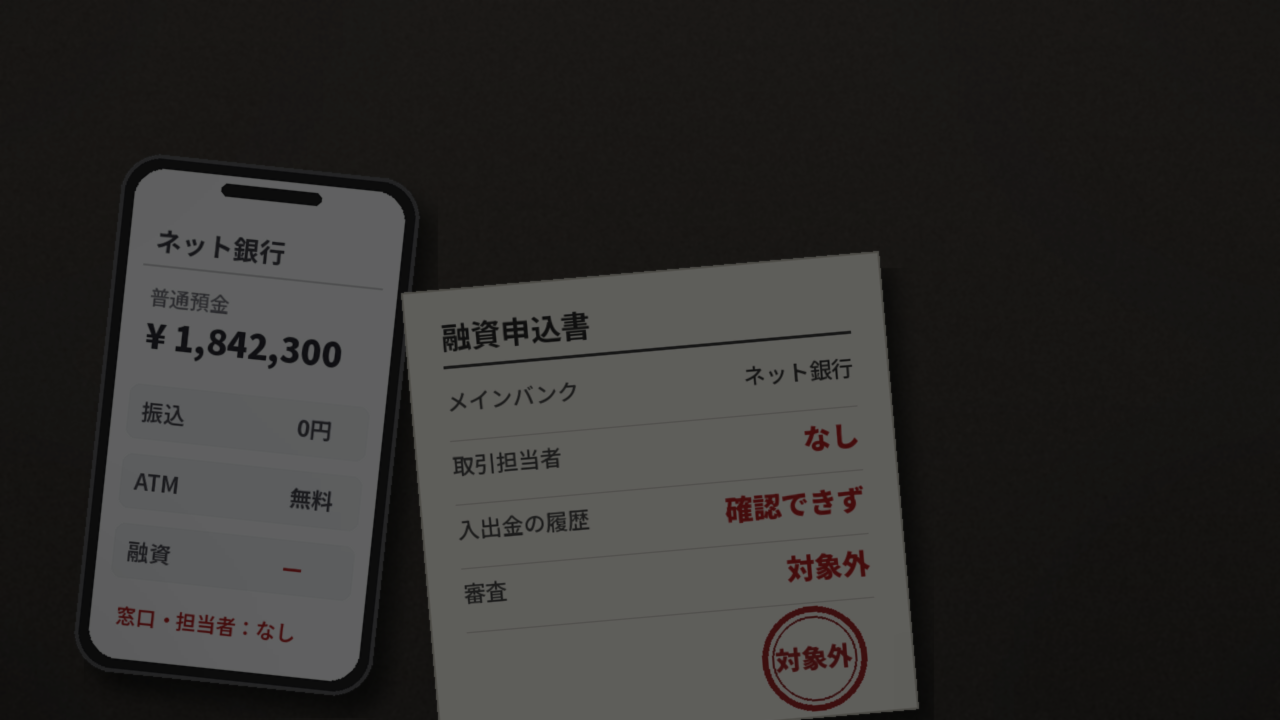
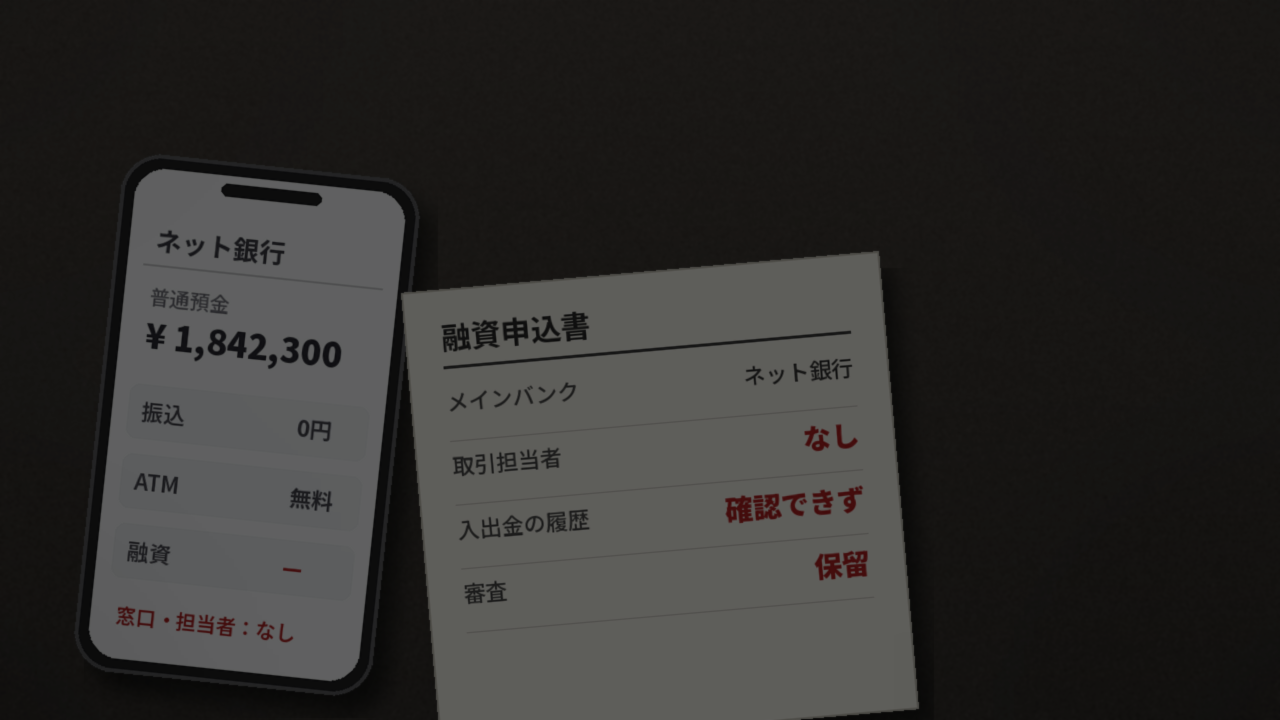
Actvision: 銀行5選サムネを助詞入り文言で作り直し（スタンプ除去・幅に合わせた文字サイズ）、v1は退避
Claude-Session: https://claude.ai/code/session_01DHBSnLSCJvtnYECMcaMvR9

Changed region(s): [[0.5938, 0.7639, 0.6875, 1.0]]

diff --git a/clients/Actvision/thumbs/ginko5/v1/gen_thumb_ginko5_v1.py b/clients/Actvision/thumbs/ginko5/v1/gen_thumb_ginko5_v1.py
@@ -1,0 +1,254 @@
+import random
+from PIL import Image, ImageDraw, ImageFont, ImageFilter, ImageChops, ImageEnhance
+W,H=1280,720
+FONT="fonts/NotoSansJP-VF.ttf"  # Noto Sans JP 可変フォント（wght=900）
+def font(size,wght=900):
+    f=ImageFont.truetype(FONT,size); f.set_variation_by_axes([wght]); return f
+random.seed(7)
+# 右1/3（x>=853）は演者用に空ける。右下10%（x>=1152,y>=648）には文字を置かない
+TEXT_X0,TEXT_X1=28,836
+L1_Y,L1_H=36,140
+L2_Y,L2_H=196,224
+BADGE=(28,560,318,652)
+PERF=(853,0,1280,720)
+
+def desk_base():
+    img=Image.new("RGB",(W,H)); px=img.load()
+    for y in range(H):
+        t=y/H; c=(int(58-18*t),int(50-16*t),int(44-14*t))
+        for x in range(W): px[x,y]=c
+    noise=Image.effect_noise((W,H),28).convert("L").filter(ImageFilter.GaussianBlur(1.2))
+    grain=Image.merge("RGB",(noise,noise,noise)).point(lambda v:int(v*0.25))
+    return ImageChops.add(img,grain,scale=1.0,offset=-20)
+def paper(w,h,fill=(242,238,226,255)):
+    p=Image.new("RGBA",(w,h),(0,0,0,0)); d=ImageDraw.Draw(p)
+    d.rectangle([0,0,w-1,h-1],fill=fill,outline=(200,195,180,255),width=2); return p
+def paste_rot(bg,layer,pos,angle):
+    rot=layer.rotate(angle,expand=True,resample=Image.BICUBIC)
+    sh=Image.new("RGBA",rot.size,(0,0,0,0)); sh.paste((0,0,0,140),(0,0),rot.split()[3])
+    bg.alpha_composite(sh.filter(ImageFilter.GaussianBlur(10)),(pos[0]+14,pos[1]+18)); bg.alpha_composite(rot,pos)
+def doc_lines(d,x,y,w,n,gap=22,col=(120,115,105,255)):
+    for i in range(n): d.line([(x,y+i*gap),(x+int(w*random.uniform(0.55,1.0)),y+i*gap)],fill=col,width=3)
+def stamp(d,cx,cy,r,text,f):
+    d.ellipse([cx-r,cy-r,cx+r,cy+r],outline=(200,30,30,230),width=6)
+    d.ellipse([cx-r+10,cy-r+10,cx+r-10,cy+r-10],outline=(200,30,30,200),width=2)
+    bb=d.textbbox((0,0),text,font=f); d.text((cx-(bb[2]-bb[0])/2-bb[0],cy-(bb[3]-bb[1])/2-bb[1]),text,font=f,fill=(200,30,30,230))
+
+def scene_A(bg):
+    f_t=font(30,700); f_s=font(20,400)
+    p=paper(520,640); d=ImageDraw.Draw(p)
+    d.text((40,40),"融資承認のお知らせ",font=f_t,fill=(40,40,40,255)); d.line([(40,90),(480,90)],fill=(60,60,60,255),width=3)
+    d.text((40,110),"ご申込みの創業資金について、下記のとおり",font=f_s,fill=(70,70,70,255))
+    d.text((40,140),"融資を承認いたしましたのでお知らせします。",font=f_s,fill=(70,70,70,255))
+    doc_lines(d,40,200,440,9,30); stamp(d,300,236,56,"承認",font(36,900))
+    paste_rot(bg,p,(30,400),6)
+    p2=paper(470,600); d=ImageDraw.Draw(p2)
+    d.text((36,36),"借入申込書（2回目）",font=f_t,fill=(40,40,40,255)); d.line([(36,86),(434,86)],fill=(60,60,60,255),width=3)
+    for i,lab in enumerate(["申込金額","資金使途","直近決算","返済状況","自己資金"]):
+        y=120+i*70; d.rectangle([36,y,434,y+46],outline=(140,135,125,255),width=2)
+        d.text((48,y+10),lab,font=f_s,fill=(80,80,80,255)); d.line([(190,y+32),(414,y+32)],fill=(150,145,135,255),width=2)
+    d.text((36,490),"審査結果",font=f_t,fill=(40,40,40,255)); d.rectangle([36,535,434,585],outline=(140,135,125,255),width=2)
+    paste_rot(bg,p2,(400,120),-5)
+    x=Image.new("RGBA",(W,H),(0,0,0,0)); dx=ImageDraw.Draw(x); cx,cy=640,430
+    for a,b in [((cx-200,cy-250),(cx+200,cy+250)),((cx+200,cy-250),(cx-200,cy+250))]: dx.line([a,b],fill=(215,25,25,235),width=32)
+    bg.alpha_composite(x.filter(ImageFilter.GaussianBlur(0.8)))
+
+def scene_B(bg):
+    f_h=font(26,700); f_r=font(30,500); f_red=font(30,900)
+    p=paper(900,780,(238,240,236,255)); d=ImageDraw.Draw(p)
+    d.text((40,24),"普通預金　ご利用明細",font=f_h,fill=(60,60,60,255))
+    for lab,x in [("年月日",40),("お取引内容",220),("お支払金額",520),("差引残高",720)]: d.text((x,80),lab,font=f_h,fill=(80,80,80,255))
+    d.line([(30,120),(870,120)],fill=(90,90,90,255),width=3)
+    rows=[("8-27","振込　ウリアゲ","","1,604,320",False),("9-05","振替　シイレ","342,000","1,262,320",False),
+          ("9-10","振込　ヤチン","298,000","964,320",False),("9-20","カード","450,000","114,320",False),
+          ("9-25","融資返済　引落不能","","114,320",True),("9-26","残高不足","","114,320",True),
+          ("10-25","融資返済　引落不能","","96,800",True),("10-26","残高不足","","96,800",True)]
+    y=140
+    for dt,desc,pay,bal,red in rows:
+        col=(205,20,20,255) if red else (50,50,50,255); f=f_red if red else f_r
+        for txt,x in [(dt,40),(desc,220),(pay,520),(bal,720)]: d.text((x,y),txt,font=f,fill=col)
+        d.line([(30,y+54),(870,y+54)],fill=(190,190,185,255),width=2); y+=68
+    paste_rot(bg,p,(-20,-20),-2)
+
+def scene_C(bg):
+    f_h=font(34,700); f_d=font(26,500)
+    p=paper(780,640,(246,244,238,255)); d=ImageDraw.Draw(p)
+    d.rectangle([0,0,779,80],fill=(60,60,70,255)); d.text((30,20),"10",font=font(40,900),fill=(255,255,255,255)); d.text((100,30),"October",font=f_h,fill=(220,220,220,255))
+    cw=780//7
+    for i,dn in enumerate("日月火水木金土"): d.text((i*cw+40,95),dn,font=f_d,fill=(200,40,40,255) if i in (0,6) else (70,70,70,255))
+    d.line([(0,135),(779,135)],fill=(120,120,120,255),width=2)
+    day=1
+    for r in range(5):
+        for c in range(7):
+            x0,y0=c*cw,140+r*100; d.rectangle([x0,y0,x0+cw,y0+100],outline=(190,190,185,255),width=1)
+            if r*7+c>=3 and day<=31: d.text((x0+10,y0+8),str(day),font=f_d,fill=(200,40,40,255) if c in (0,6) else (60,60,60,255)); day+=1
+    cx,cy=cw*3,140+3*100+40
+    for k in range(3): d.ellipse([cx-150-k,cy-62-k,cx+150+k,cy+62+k],outline=(215,25,25,240),width=6)
+    fm=font(64,900); bb=d.textbbox((0,0),"24ヶ月",font=fm); d.text((cx-(bb[2]-bb[0])//2-bb[0],cy-(bb[3]-bb[1])//2-bb[1]),"24ヶ月",font=fm,fill=(215,25,25,250))
+    paste_rot(bg,p,(30,40),-4)
+    p2=paper(420,280); d2=ImageDraw.Draw(p2)
+    d2.text((30,24),"借入申込書",font=f_h,fill=(40,40,40,255)); d2.line([(30,70),(390,70)],fill=(60,60,60,255),width=3); doc_lines(d2,30,100,360,6,28)
+    paste_rot(bg,p2,(560,480),7)
+
+def finish(bg):
+    img=bg.convert("RGB").filter(ImageFilter.GaussianBlur(0.6))
+    img=ImageEnhance.Brightness(img).enhance(0.40); img=ImageEnhance.Color(img).enhance(0.75)
+    v=Image.new("L",(W,H),0); ImageDraw.Draw(v).ellipse([-200,-180,W+200,H+180],fill=255); v=v.filter(ImageFilter.GaussianBlur(160))
+    return Image.composite(img,Image.new("RGB",(W,H),(0,0,0)),v.point(lambda p:int(60+p*0.75))).convert("RGBA")
+
+def stretched_text(text,tw,th,fill,stroke,sw,base=260):
+    f=font(base,900); d=ImageDraw.Draw(Image.new("RGBA",(10,10)))
+    bb=d.textbbox((0,0),text,font=f,stroke_width=sw); w,h=bb[2]-bb[0],bb[3]-bb[1]
+    layer=Image.new("RGBA",(w+40,h+40),(0,0,0,0)); ImageDraw.Draw(layer).text((20-bb[0],20-bb[1]),text,font=f,fill=fill,stroke_width=sw,stroke_fill=stroke)
+    return layer.resize((tw,th),Image.LANCZOS)
+
+
+def stretched_segments(segs,tw,th,sw_outer=34,sw_inner=24,base=260):
+    f=font(base,900); d=ImageDraw.Draw(Image.new("RGBA",(10,10)))
+    boxes=[d.textbbox((0,0),t,font=f,stroke_width=sw_outer) for t,_,_ in segs]
+    adv=[d.textlength(t,font=f) for t,_,_ in segs]
+    w=int(sum(adv))+sw_outer*2+40; h=max(b[3]-b[1] for b in boxes)+40; top=min(b[1] for b in boxes)
+    layer=Image.new("RGBA",(w,h),(0,0,0,0)); dl=ImageDraw.Draw(layer)
+    for pas in ("outer","inner"):
+        x=20+sw_outer
+        for (t,fill,stroke),a in zip(segs,adv):
+            if pas=="outer": dl.text((x,20-top),t,font=f,fill=(0,0,0,255),stroke_width=sw_outer,stroke_fill=(0,0,0,255))
+            else: dl.text((x,20-top),t,font=f,fill=fill,stroke_width=sw_inner,stroke_fill=stroke)
+            x+=a
+    return layer.resize((tw,th),Image.LANCZOS)
+
+YEL=(255,230,0,255); RED_S=(205,0,0,255); EMP=(240,40,40,255); BLK=(0,0,0,255)
+def text_layer(l1,l2segs):
+    t=Image.new("RGBA",(W,H),(0,0,0,0)); tw=TEXT_X1-TEXT_X0
+    t.alpha_composite(stretched_text(l1,tw,L1_H,(255,255,255,255),(0,0,0,255),22),(TEXT_X0,L1_Y))
+    t.alpha_composite(stretched_segments(l2segs,tw,L2_H),(TEXT_X0,L2_Y))
+    ov=Image.new("RGBA",(W,H),(0,0,0,0)); ImageDraw.Draw(ov).rounded_rectangle(BADGE,radius=8,fill=(0,0,0,175)); t.alpha_composite(ov)
+    d=ImageDraw.Draw(t); fb=font(32,800)
+    d.text((BADGE[0]+18,BADGE[1]+8),"年間相談500件超",font=fb,fill=(255,255,255,255))
+    d.text((BADGE[0]+18,BADGE[1]+50),"大阪の税理士",font=fb,fill=(255,255,255,255))
+    return t
+
+def sheet_doc(title,rows,w=520,h=560,fill=(242,238,226,255)):
+    p=paper(w,h,fill); d=ImageDraw.Draw(p); f_t=font(30,700); f_s=font(24,500)
+    d.text((36,30),title,font=f_t,fill=(40,40,40,255)); d.line([(36,78),(w-36,78)],fill=(60,60,60,255),width=3)
+    for i,(lab,val,red) in enumerate(rows):
+        yy=100+i*58; d.text((36,yy),lab,font=f_s,fill=(70,70,70,255)); fv=font(30,900) if red else f_s
+        d.text((w-36-d.textlength(val,font=fv),yy),val,font=fv,fill=(205,20,20,255) if red else (50,50,50,255))
+        d.line([(36,yy+48),(w-36,yy+48)],fill=(200,195,185,255),width=1)
+    return p
+
+def scene_A(bg):
+    p=sheet_doc("領収書",[("備品・ソフト購入","1,000,000",False),("支払方法","現金",False),("目的","決算前の節税",False)],w=460,h=330)
+    ImageDraw.Draw(p).text((36,270),"¥1,000,000",font=font(40,900),fill=(40,40,40,255)); paste_rot(bg,p,(40,110),-6)
+    p2=sheet_doc("節税の効果",[("使ったお金","1,000,000",False),("減った税金（税率30%）","▲300,000",True),("手元から出た現金","700,000",True),("残った現金","▲700,000",True)],w=520,h=400,fill=(246,244,238,255))
+    paste_rot(bg,p2,(380,330),4)
+def scene_B(bg):
+    p=sheet_doc("販売費及び一般管理費",[("役員報酬","12,000,000",False),("交際費","20,000,000",True),("車両費","4,800,000",False),("広告宣伝費","1,200,000",False),("支払利息","900,000",False)],w=560,h=440)
+    paste_rot(bg,p,(40,120),-4)
+    p2=sheet_doc("融資審査メモ",[("交際費／売上","異常値",True),("経費の使い方","放漫",True),("総合評価","要注意先",True)],w=440,h=380,fill=(246,244,238,255))
+    stamp(ImageDraw.Draw(p2),350,318,52,"要注意",font(24,900)); paste_rot(bg,p2,(420,330),5)
+def scene_C(bg):
+    p=sheet_doc("請求書",[("機械設備　一式","8,500,000",False),("支払条件","現金一括",True),("支払期日","納品時",False)],w=480,h=330)
+    ImageDraw.Draw(p).text((36,270),"¥8,500,000",font=font(40,900),fill=(40,40,40,255)); paste_rot(bg,p,(40,110),-6)
+    f_h=font(24,700); f_r=font(28,500); f_red=font(28,900)
+    p2=paper(620,420,(238,240,236,255)); d=ImageDraw.Draw(p2)
+    d.text((30,20),"普通預金　ご利用明細",font=f_h,fill=(60,60,60,255))
+    for lab,x in [("年月日",30),("お取引内容",180),("差引残高",420)]: d.text((x,64),lab,font=f_h,fill=(80,80,80,255))
+    d.line([(20,100),(600,100)],fill=(90,90,90,255),width=3); y=112
+    for dt,desc,bal,red in [("9-25","振込　ウリアゲ","9,120,000",False),("9-30","設備代金　一括","620,000",True),("10-25","融資返済","430,000",True),("10-31","給与振込","▲ 不足",True)]:
+        col=(205,20,20,255) if red else (50,50,50,255); f=f_red if red else f_r
+        d.text((30,y),dt,font=f,fill=col); d.text((180,y),desc,font=f,fill=col); d.text((420,y),bal,font=f,fill=col)
+        d.line([(20,y+50),(600,y+50)],fill=(190,190,185,255),width=2); y+=62
+    paste_rot(bg,p2,(330,340),4)
+
+
+WHT=(255,255,255,255)
+def text_layer2(l1segs,l2segs,l1h=L1_H,l2h=L2_H,gap=16):
+    """上段・下段とも区切りごとに色指定。行の高さを案ごとに変えられる"""
+    t=Image.new("RGBA",(W,H),(0,0,0,0)); tw=TEXT_X1-TEXT_X0
+    t.alpha_composite(stretched_segments(l1segs,tw,l1h,sw_outer=30,sw_inner=18),(TEXT_X0,L1_Y))
+    t.alpha_composite(stretched_segments(l2segs,tw,l2h),(TEXT_X0,L1_Y+l1h+gap))
+    ov=Image.new("RGBA",(W,H),(0,0,0,0)); ImageDraw.Draw(ov).rounded_rectangle(BADGE,radius=8,fill=(0,0,0,175)); t.alpha_composite(ov)
+    d=ImageDraw.Draw(t); fb=font(32,800)
+    d.text((BADGE[0]+18,BADGE[1]+8),"年間相談500件超",font=fb,fill=WHT)
+    d.text((BADGE[0]+18,BADGE[1]+50),"大阪の税理士",font=fb,fill=WHT)
+    return t
+
+
+def phone(w=300,h=520):
+    p=Image.new("RGBA",(w,h),(0,0,0,0)); d=ImageDraw.Draw(p)
+    d.rounded_rectangle([0,0,w-1,h-1],radius=40,fill=(30,30,34,255),outline=(90,90,95,255),width=4)
+    d.rounded_rectangle([14,14,w-15,h-15],radius=30,fill=(245,247,250,255))
+    d.rounded_rectangle([w//2-50,22,w//2+50,34],radius=6,fill=(30,30,34,255))
+    return p
+
+def scene_A(bg):
+    """メインバンク選定シート（3択）と通帳3冊。答えは出さず「1択」のスタンプだけ"""
+    f_t=font(30,700); f_s=font(24,500)
+    p=paper(560,420,(246,244,238,255)); d=ImageDraw.Draw(p)
+    d.text((36,30),"創業時のメインバンク",font=f_t,fill=(40,40,40,255)); d.line([(36,78),(524,78)],fill=(60,60,60,255),width=3)
+    for i,lab in enumerate(["ネット銀行","メガバンク","地方銀行","信用金庫"]):
+        yy=100+i*68; d.rectangle([40,yy+6,72,yy+38],outline=(90,90,90,255),width=3); d.text((90,yy),lab,font=font(28,600),fill=(60,60,60,255))
+        d.text((360,yy),"融資　　　口座",font=f_s,fill=(120,120,120,255))
+    stamp(d,450,330,60,"1択",font(40,900))
+    paste_rot(bg,p,(30,330),-4)
+    for i,(lab,col,pos,ang) in enumerate([("総合口座",(70,110,160,255),(600,430),8),("普通預金",(120,70,70,255),(690,480),3),("通帳",(60,100,80,255),(780,450),-6)]):
+        b=Image.new("RGBA",(200,320),(0,0,0,0)); db=ImageDraw.Draw(b)
+        db.rounded_rectangle([0,0,199,319],radius=10,fill=col,outline=(230,230,230,120),width=2)
+        db.rounded_rectangle([30,60,170,110],radius=6,fill=(240,236,225,255)); db.text((44,72),lab,font=font(22,700),fill=(60,60,60,255))
+        paste_rot(bg,b,pos,ang)
+
+def scene_B(bg):
+    """スマホのネット銀行画面と、融資申込書の対象外スタンプ"""
+    ph=phone(); d=ImageDraw.Draw(ph)
+    d.text((40,70),"ネット銀行",font=font(26,700),fill=(60,60,70,255)); d.line([(30,110),(270,110)],fill=(200,200,205,255),width=2)
+    d.text((40,130),"普通預金",font=font(20,500),fill=(110,110,120,255)); d.text((40,160),"¥ 1,842,300",font=font(34,900),fill=(40,40,50,255))
+    for i,(lab,v) in enumerate([("振込","0円"),("ATM","無料"),("融資","—")]):
+        yy=230+i*70; d.rounded_rectangle([30,yy,270,yy+54],radius=10,fill=(235,238,243,255))
+        d.text((44,yy+14),lab,font=font(22,600),fill=(70,70,80,255)); d.text((200,yy+14),v,font=font(22,700),fill=(205,20,20,255) if v=="—" else (70,70,80,255))
+    d.text((40,450),"窓口・担当者：なし",font=font(20,600),fill=(205,20,20,255))
+    paste_rot(bg,ph,(70,150),-6)
+    f_t=font(30,700); f_s=font(22,500)
+    p=paper(480,460); d=ImageDraw.Draw(p)
+    d.text((36,30),"融資申込書",font=f_t,fill=(40,40,40,255)); d.line([(36,78),(444,78)],fill=(60,60,60,255),width=3)
+    for i,(lab,val,red) in enumerate([("メインバンク","ネット銀行",False),("取引担当者","なし",True),("入出金の履歴","確認できず",True),("審査","対象外",True)]):
+        yy=100+i*64; d.text((36,yy),lab,font=f_s,fill=(70,70,70,255)); fv=font(28,900) if red else f_s
+        d.text((444-d.textlength(val,font=fv),yy),val,font=fv,fill=(205,20,20,255) if red else (50,50,50,255))
+        d.line([(36,yy+52),(444,yy+52)],fill=(200,195,185,255),width=1)
+    stamp(d,380,400,52,"対象外",font(26,900))
+    paste_rot(bg,p,(400,250),5)
+
+def scene_C(bg):
+    """大手銀行の総合口座通帳と、創業期の審査メモ"""
+    b=Image.new("RGBA",(360,560),(0,0,0,0)); db=ImageDraw.Draw(b)
+    db.rounded_rectangle([0,0,359,559],radius=12,fill=(40,60,110,255),outline=(230,230,230,120),width=2)
+    db.rounded_rectangle([50,90,310,160],radius=6,fill=(240,236,225,255)); db.text((70,108),"総合口座通帳",font=font(28,700),fill=(60,60,60,255))
+    db.text((70,200),"メガバンク",font=font(26,600),fill=(220,225,235,255)); db.text((70,240),"法人口座",font=font(22,500),fill=(190,195,210,255))
+    db.line([(50,480),(310,480)],fill=(200,205,220,160),width=2)
+    paste_rot(bg,b,(60,130),-6)
+    f_t=font(30,700); f_s=font(22,500)
+    p=paper(500,440,(246,244,238,255)); d=ImageDraw.Draw(p)
+    d.text((36,30),"融資審査メモ（創業期）",font=f_t,fill=(40,40,40,255)); d.line([(36,78),(464,78)],fill=(60,60,60,255),width=3)
+    for i,(lab,val,red) in enumerate([("年商","2,400万",False),("希望額","500万",False),("取引規模","小口",True),("担当者の訪問","なし",True),("判定","",True)]):
+        yy=100+i*58; d.text((36,yy),lab,font=f_s,fill=(70,70,70,255)); fv=font(28,900) if red else f_s
+        d.text((464-d.textlength(val,font=fv),yy),val,font=fv,fill=(205,20,20,255) if red else (50,50,50,255))
+        d.line([(36,yy+48),(464,yy+48)],fill=(200,195,185,255),width=1)
+    stamp(d,400,386,52,"不向き",font(26,900))
+    paste_rot(bg,p,(400,260),5)
+
+FINAL={
+ "A":dict(scene=scene_A,l1=[("創業時メイン銀行",WHT,BLK)],l2=[("正解は1択",YEL,RED_S)],l1h=L1_H,l2h=L2_H),
+ "B":dict(scene=scene_B,l1=[("ネット銀行メイン",WHT,BLK)],l2=[("融資遠のく",YEL,RED_S)],l1h=L1_H,l2h=L2_H),
+ "C":dict(scene=scene_C,l1=[("メガバンクだけ",WHT,BLK)],l2=[("創業期は不向き",YEL,RED_S)],l1h=L1_H,l2h=L2_H),
+}
+outs={}
+for k,sp in FINAL.items():
+    bg=desk_base().convert("RGBA"); sp["scene"](bg); bg=finish(bg); bg.convert("RGB").save(f"bg_ginko5_{k}.png")
+    tl=text_layer2(sp["l1"],sp["l2"],sp["l1h"],sp["l2h"]); tl.save(f"text_ginko5_{k}.png")
+    comp=bg.copy(); comp.alpha_composite(tl); comp=comp.convert("RGB"); comp.save(f"thumb_ginko5_{k}.png"); outs[k]=comp
+cs=Image.new("RGB",(3*640+4*30,480),(28,28,30)); dcs=ImageDraw.Draw(cs)
+for i,k in enumerate(FINAL):
+    x=30+i*670; cs.paste(outs[k].resize((640,360),Image.LANCZOS),(x,80))
+    t1="".join(t for t,_,_ in FINAL[k]["l1"]); t2="".join(t for t,_,_ in FINAL[k]["l2"])
+    dcs.text((x,24),f"{k}　{t1}／{t2}",font=font(28,700),fill=(240,240,240))
+cs.save("contact_sheet_ginko5.png"); print("done")

diff --git a/clients/Actvision/thumbs/ginko5/gen_thumb_ginko5.py b/clients/Actvision/thumbs/ginko5/gen_thumb_ginko5.py
@@ -190,7 +190,6 @@ def scene_A(bg):
     for i,lab in enumerate(["ネット銀行","メガバンク","地方銀行","信用金庫"]):
         yy=100+i*68; d.rectangle([40,yy+6,72,yy+38],outline=(90,90,90,255),width=3); d.text((90,yy),lab,font=font(28,600),fill=(60,60,60,255))
         d.text((360,yy),"融資　　　口座",font=f_s,fill=(120,120,120,255))
-    stamp(d,450,330,60,"1択",font(40,900))
     paste_rot(bg,p,(30,330),-4)
     for i,(lab,col,pos,ang) in enumerate([("総合口座",(70,110,160,255),(600,430),8),("普通預金",(120,70,70,255),(690,480),3),("通帳",(60,100,80,255),(780,450),-6)]):
         b=Image.new("RGBA",(200,320),(0,0,0,0)); db=ImageDraw.Draw(b)
@@ -211,11 +210,10 @@ def scene_B(bg):
     f_t=font(30,700); f_s=font(22,500)
     p=paper(480,460); d=ImageDraw.Draw(p)
     d.text((36,30),"融資申込書",font=f_t,fill=(40,40,40,255)); d.line([(36,78),(444,78)],fill=(60,60,60,255),width=3)
-    for i,(lab,val,red) in enumerate([("メインバンク","ネット銀行",False),("取引担当者","なし",True),("入出金の履歴","確認できず",True),("審査","対象外",True)]):
+    for i,(lab,val,red) in enumerate([("メインバンク","ネット銀行",False),("取引担当者","なし",True),("入出金の履歴","確認できず",True),("審査","保留",True)]):
         yy=100+i*64; d.text((36,yy),lab,font=f_s,fill=(70,70,70,255)); fv=font(28,900) if red else f_s
         d.text((444-d.textlength(val,font=fv),yy),val,font=fv,fill=(205,20,20,255) if red else (50,50,50,255))
         d.line([(36,yy+52),(444,yy+52)],fill=(200,195,185,255),width=1)
-    stamp(d,380,400,52,"対象外",font(26,900))
     paste_rot(bg,p,(400,250),5)
 
 def scene_C(bg):
@@ -233,18 +231,36 @@ def scene_C(bg):
         yy=100+i*58; d.text((36,yy),lab,font=f_s,fill=(70,70,70,255)); fv=font(28,900) if red else f_s
         d.text((464-d.textlength(val,font=fv),yy),val,font=fv,fill=(205,20,20,255) if red else (50,50,50,255))
         d.line([(36,yy+48),(464,yy+48)],fill=(200,195,185,255),width=1)
-    stamp(d,400,386,52,"不向き",font(26,900))
     paste_rot(bg,p,(400,260),5)
 
+
+def fit_segments(segs,tw,maxh,min_aspect,sw_outer,sw_inner,base=260):
+    """縦横比を保って幅 tw に収める。min_aspect まで横に詰めてよい（例 0.85＝最大15%圧縮）。高さは maxh を上限"""
+    f=font(base,900); d=ImageDraw.Draw(Image.new("RGBA",(10,10)))
+    adv=sum(d.textlength(t,font=f) for t,_,_ in segs)+sw_outer*2+40
+    bb=d.textbbox((0,0),"".join(t for t,_,_ in segs),font=f,stroke_width=sw_outer); nh=bb[3]-bb[1]+40
+    h=int(min(maxh, tw/(adv/nh)/min_aspect))
+    return stretched_segments(segs,tw,h,sw_outer=sw_outer,sw_inner=sw_inner,base=base),h
+
+def text_layer3(l1segs,l2segs,gap=16):
+    t=Image.new("RGBA",(W,H),(0,0,0,0)); tw=TEXT_X1-TEXT_X0
+    a,h1=fit_segments(l1segs,tw,L1_H,0.85,30,18); t.alpha_composite(a,(TEXT_X0,L1_Y))
+    b,h2=fit_segments(l2segs,tw,L2_H,0.62,34,24); t.alpha_composite(b,(TEXT_X0,L1_Y+h1+gap))
+    ov=Image.new("RGBA",(W,H),(0,0,0,0)); ImageDraw.Draw(ov).rounded_rectangle(BADGE,radius=8,fill=(0,0,0,175)); t.alpha_composite(ov)
+    d=ImageDraw.Draw(t); fb=font(32,800)
+    d.text((BADGE[0]+18,BADGE[1]+8),"年間相談500件超",font=fb,fill=WHT)
+    d.text((BADGE[0]+18,BADGE[1]+50),"大阪の税理士",font=fb,fill=WHT)
+    return t,h1,h2
+
 FINAL={
- "A":dict(scene=scene_A,l1=[("創業時メイン銀行",WHT,BLK)],l2=[("正解は1択",YEL,RED_S)],l1h=L1_H,l2h=L2_H),
- "B":dict(scene=scene_B,l1=[("ネット銀行メイン",WHT,BLK)],l2=[("融資遠のく",YEL,RED_S)],l1h=L1_H,l2h=L2_H),
- "C":dict(scene=scene_C,l1=[("メガバンクだけ",WHT,BLK)],l2=[("創業期は不向き",YEL,RED_S)],l1h=L1_H,l2h=L2_H),
+ "A":dict(scene=scene_A,l1=[("その銀行で大丈夫？",WHT,BLK)],l2=[("選び方で融資が変わる",YEL,RED_S)]),
+ "B":dict(scene=scene_B,l1=[("ネット銀行がメイン？",WHT,BLK)],l2=[("税理士の答えは？",YEL,RED_S)]),
+ "C":dict(scene=scene_C,l1=[("最初はメガバンク？",WHT,BLK)],l2=[("創業時に合う銀行は？",YEL,RED_S)]),
 }
 outs={}
 for k,sp in FINAL.items():
     bg=desk_base().convert("RGBA"); sp["scene"](bg); bg=finish(bg); bg.convert("RGB").save(f"bg_ginko5_{k}.png")
-    tl=text_layer2(sp["l1"],sp["l2"],sp["l1h"],sp["l2h"]); tl.save(f"text_ginko5_{k}.png")
+    tl,h1,h2=text_layer3(sp["l1"],sp["l2"]); tl.save(f"text_ginko5_{k}.png"); print(k,"line heights",h1,h2)
     comp=bg.copy(); comp.alpha_composite(tl); comp=comp.convert("RGB"); comp.save(f"thumb_ginko5_{k}.png"); outs[k]=comp
 cs=Image.new("RGB",(3*640+4*30,480),(28,28,30)); dcs=ImageDraw.Draw(cs)
 for i,k in enumerate(FINAL):

diff --git a/clients/Actvision/thumbs/ginko5/README.md b/clients/Actvision/thumbs/ginko5/README.md
@@ -1,13 +1,18 @@
 # しおたに先生 社長の教科書「銀行の選び方と付き合い方5選」サムネ
 
 okane6 と同じ型：1280×720、右1/3は演者（塩谷さん）用に空き、右下10%に文字なし、
-上段＝白＋黒縁、下段＝黄色＋赤縁、左下に権威バッジ、背景は明度40%。文言は確定版のまま。
+上段＝白＋黒縁、下段＝黄色＋赤縁、左下に権威バッジ、背景は明度40%。
 
-- `thumb_ginko5_A.png` 創業時メイン銀行／正解は1択（背景：メインバンク選定シート＋通帳3冊。答えは出さず「1択」スタンプのみ）
-- `thumb_ginko5_B.png` ネット銀行メイン／融資遠のく（背景：スマホのネット銀行画面＋「対象外」スタンプの融資申込書）
-- `thumb_ginko5_C.png` メガバンクだけ／創業期は不向き（背景：大手行風の総合口座通帳＋「不向き」スタンプの審査メモ）
+## 現行版（10/25・助詞入りの話し言葉）
+- `thumb_ginko5_A.png` その銀行で大丈夫？／選び方で融資が変わる（背景：メインバンク選定シート＋通帳3冊）
+- `thumb_ginko5_B.png` ネット銀行がメイン？／税理士の答えは？（背景：スマホのネット銀行画面＋融資申込書）
+- `thumb_ginko5_C.png` 最初はメガバンク？／創業時に合う銀行は？（背景：大手行風の総合口座通帳＋審査メモ）
 - `contact_sheet_ginko5.png` 3案を横1列に並べたコンタクトシート
 - `layers/bg_ginko5_*.png` 背景レイヤー ／ `layers/text_ginko5_*.png` 文字＋バッジの透過レイヤー
-- `gen_thumb_ginko5.py` 生成スクリプト
+- `gen_thumb_ginko5.py` 生成スクリプト。10字の行は縦横比を保って幅に合わせて縮め、下段が上段より大きくなる範囲で調整
 
-銀行の実名・ロゴは入れていない（「ネット銀行」「メガバンク」「信用金庫」などの一般名のみ）。
+答えを示す「1択」「対象外」「不向き」のスタンプは外した。チェック欄・通帳は残している。
+銀行の実名・ロゴは入れていない。
+
+## v1（10/25 初版・単語並びの文言）
+`v1/` に退避。
